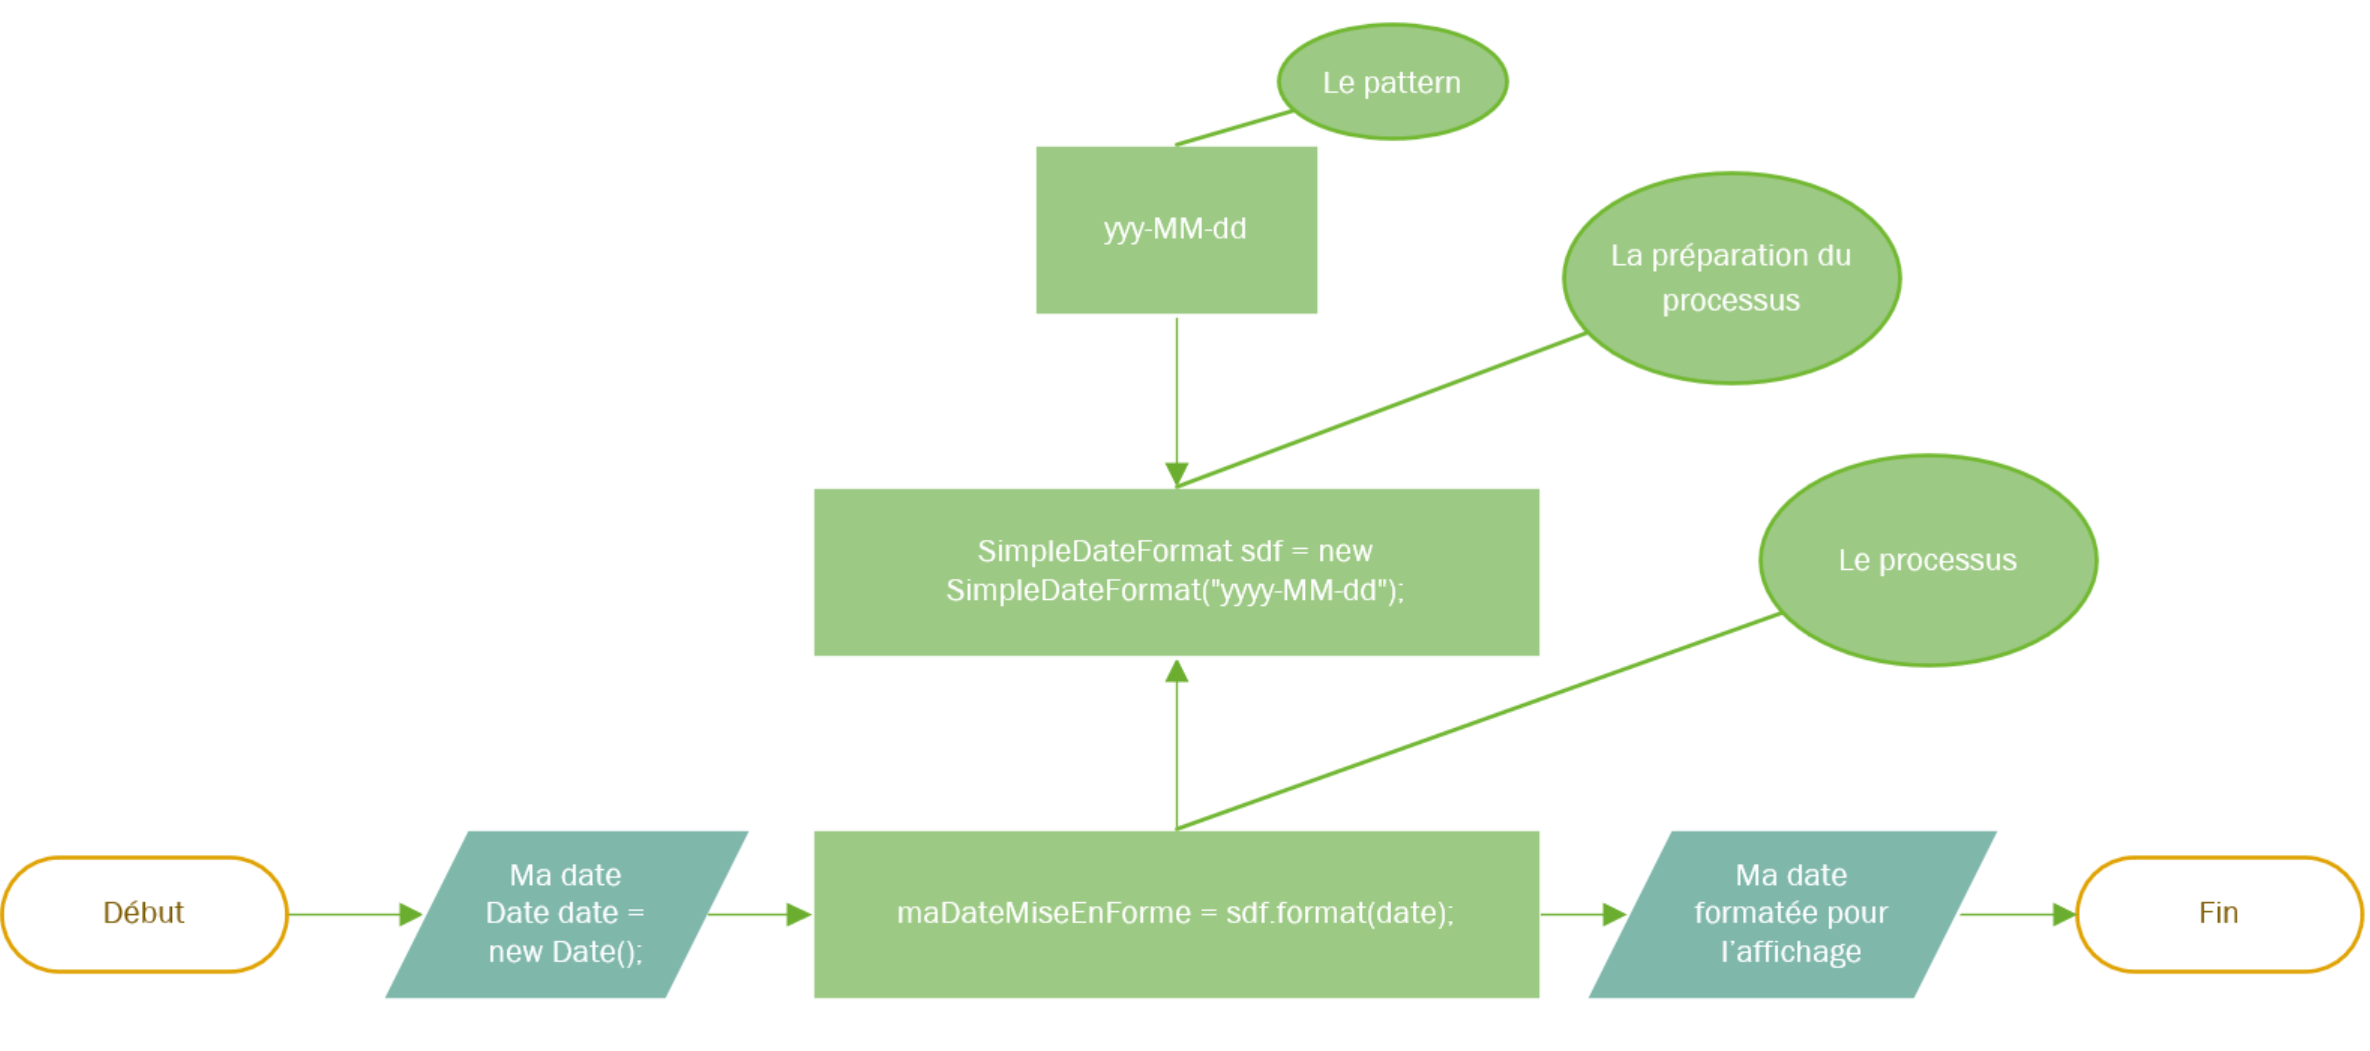
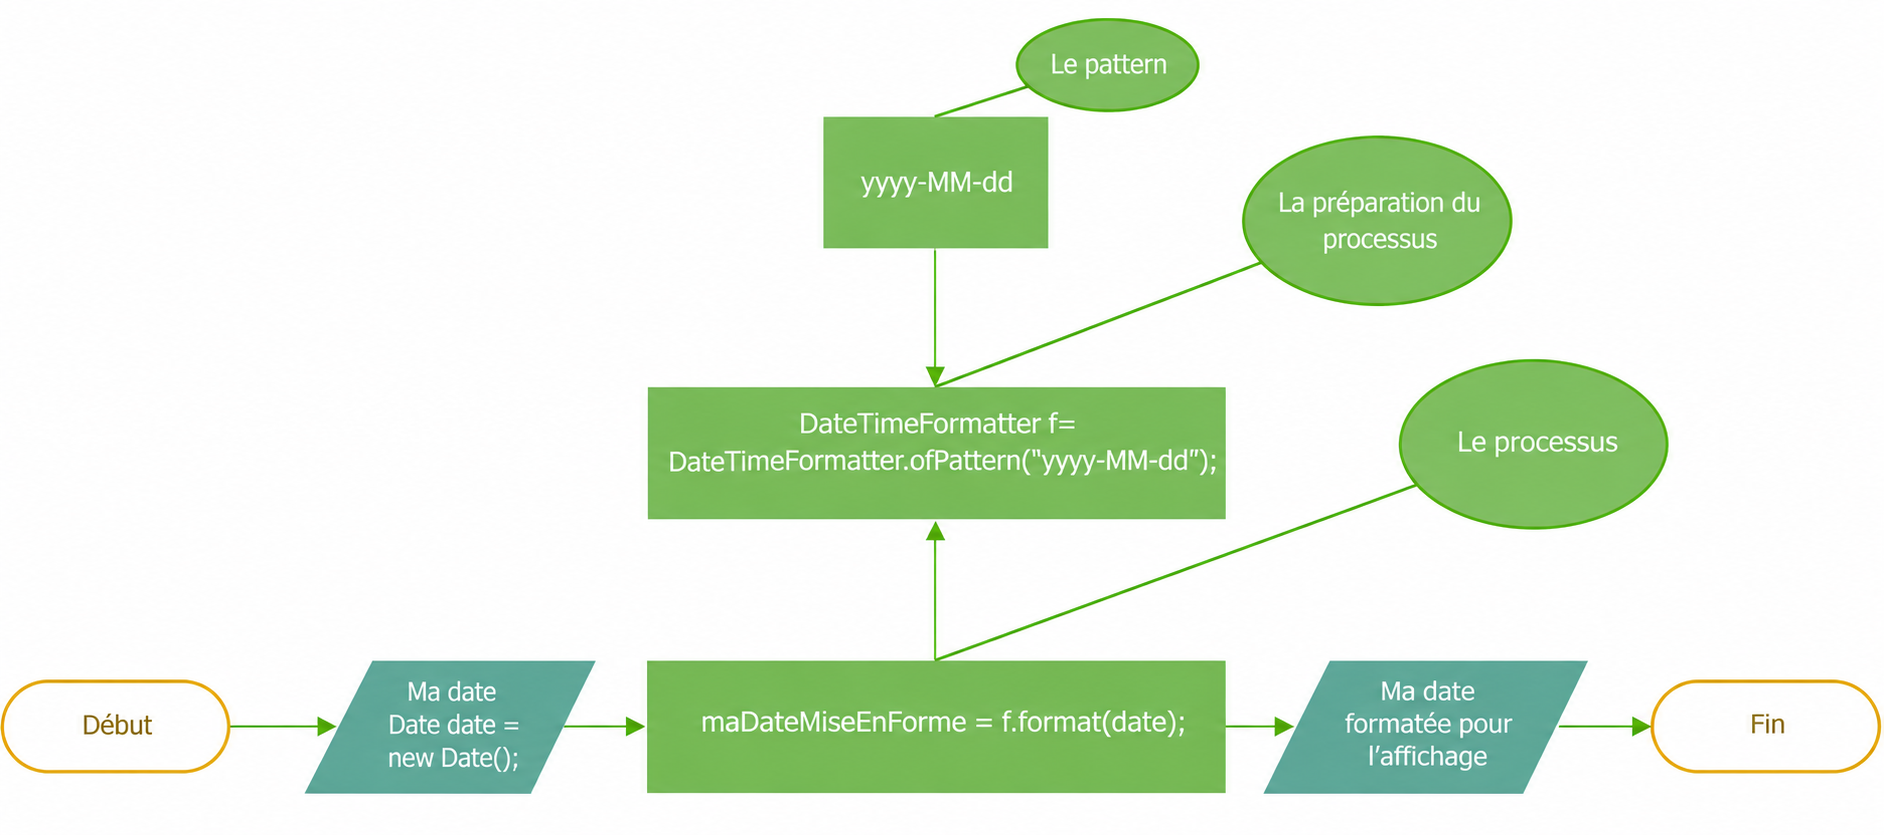
correction consigne: suppression mention JDK8 et SimpleDateFormat

diff --git a/THEORIE-Formatage-des-nombres.md b/THEORIE-Formatage-des-nombres.md
@@ -17,23 +17,20 @@ Le concept de "locale" fait référence à une région géographique, une langue
 Lors du formatage des nombres, la localisation (ou "locale" en anglais) joue un rôle crucial car elle détermine les conventions spécifiques utilisées pour le formatage, tels que le séparateur décimal, le séparateur de milliers, et même les symboles monétaires.
 La classe Locale dans le package java.util permet de représenter et de manipuler ces informations.
 
-Les symboles utilisés par la Locale par défaut sont visibles dans les réglages Windows: 
-- Panneau de configuration\Horloge et région\Region
+Depuis le JDK 9, Java utilise le CLDR (Common Locale Data Repository) pour les Locales et leurs symboles. Dans un système Windows configuré en français suisse, Java choisira donc par défaut la locale fr_CH du CLDR.
 
-  Par exemple dans les paramètres supplémentaire vous trouvez:
-
-
-  <img src="doc/img/TH_nombre_2.png" alt="personnalisation du format windows" />
-
+Dans le JDK 17, la locale de_CH utilise un point pour séparer les décimales et un apostrophe pour séparer les groupes (milliers). La locale fr_CH utilise une virgule pour séparer les décimales et un petit espace insécable pour séparer les groupes. Ce caractère unicode n'est pas toujours bien rendu par la console Windows.
 
 ## Formatage simple avec la Locale par défaut :
 
 Un constructeur de la classe DecimalFormat va nous permettre de créer notre outil de conversion, en indiquant directement en paramètre le pattern d'affichage souhaité.
-L'objet retourné de type DecimalFormat va nous permettre d'effectuer la transformation de notre nombre.
+L'objet retourné de type DecimalFormat servira à effectuer la transformation de notre nombre.
+
 **Attention:** Avec ce constructeur ce sont les **symboles** de la Locale par défaut qui sont utilisés.
 
 Il ne faut pas confondre pattern et symbole:
-   Par exemple la virgule (,) du pattern définit la présence de séparateurs de milliers, mais ce sera le symbole défini dans la Locale qui sera utilisé pour représenter ce séparateur de milliers.
+   - la virgule (,) du pattern définit la présence et l'emplacement de séparateurs
+   - dans l'affichage, un espace ou une apostrophe (ou autre) sera utilisé pour représenter ce séparateur
 
 Voici la même explication en code:
 
@@ -43,15 +40,14 @@ Voici la même explication en code:
 //Début du processus et définition d'un nombre.
 double monNombre = 1234567.89569;
 
-//Préparation de notre outil de transformation en utilisant un des constructeurs de DecimalFormat,
-//avec en paramètre le pattern désiré.
-//L'objet retourné de type DecimalFormat va nous permettre d'effectuer la transformation de notre nombre:
+/*Préparation de notre outil de transformation en utilisant un des constructeurs de DecimalFormat, avec en paramètre le pattern désiré.
+L'objet retourné de type DecimalFormat va nous permettre d'effectuer la transformation de notre nombre: */
 DecimalFormat df = new DecimalFormat("###,###.###");
 
 //Transformation et récupération du résultat
 String leNombreMisEnForme = df.format(monNombre);
 
-//Affichage du résultat:  1'234'567.895;
+//Affichage du résultat (peut varier selon la locale) :  1'234'567.895;
 System.out.println(leNombreMisEnForme); 
 ```
 
@@ -67,11 +63,11 @@ Et l'illustration schématique:
 | `###,###.###`        | Séparateur de milliers et jusqu'à trois décimales                     | 12345.678        | 12'345.678          |
 | `000000.00`          | Au moins six chiffres avant et deux après le point décimal, remplis de zéros | 78.5             | 000078.50           |
 | `#.#`                | Jusqu'à une décimale, pas de séparateur de milliers                   | 12345.678        | 12345.7             |
-| `###,###`            | Séparateur de milliers, pas de décimales                              | 1234567.89       | 1'234,568           |
-| `###,###.000`        | Séparateur de milliers et exactement trois décimales                  | 1234567.89       | 1'234,567.890       |
+| `###,###`            | Séparateur de milliers, pas de décimales                              | 1234567.89       | 1'234'568           |
+| `###,###.000`        | Séparateur de milliers et exactement trois décimales                  | 1234567.89       | 1'234'567.890       |
 | `00000000`           | Au moins huit chiffres, remplis de zéros, pas de décimales            | 12345            | 00012345            |
 | `¤ ###,###.00`       | Symbole de devise, séparateur de milliers et exactement deux décimales | 12345.678        | $ 12'345.68         |
-| `00.###E0`           | Notation exponentielle avec jusqu'à trois décimales                   | 12345.678        | 12'346E3            |
+| `00.###E0`           | Notation exponentielle avec jusqu'à trois décimales                   | 12345.678        | 12.346E5            |
 | `#,##0.0%`           | Multiplie par 100 et ajoute un symbole de pourcentage                 | 0.756            | 75.6%               |
 | `0.00‰`              | Multiplie par 1000 et ajoute un symbole pour mille                    | 0.1234           | 123.40‰             |
 | `# ?/?`              | Format de fraction simplifiée                                         | 1.25             | 1 1/4               |
@@ -80,7 +76,7 @@ Et l'illustration schématique:
 - `#` : Un chiffre, affiché seulement s'il est significatif.
 - `0` : Un chiffre, affiché même s'il est non significatif.
 - `.` : Emplacement du séparateur décimal.
-- `,` : Emplacement du séparateur de milliers.
+- `,` : Emplacement du séparateur de groupement.
 - `¤` : Symbole de la devise.
 - `%` : Multiplie par 100 et affiche un symbole de pourcentage.
 - `‰` : Multiplie par 1000 et affiche un symbole pour mille.
@@ -112,42 +108,23 @@ String leNombreMisEnForme = df.format(monNombre);
 System.out.println(leNombreMisEnForme);
 ```
 
+On peut également redéfinir certains symboles sans forcément modifier la Locale.
 
-
-## Compatibilité ascendante des JRE
-
-Java prône la compatibilité ascendante, c'est à dire la capacité d'une nouvelle version du JRE de faire fonctionner du code conçu avec une ancienne version.
-Et bien cette compatibilité est cassée entre le JRE 8 et JRE 17 pour certains symboles de certaines Locales:
-
-**Le code:**
 ```java
-    double monNombre = 1234567.89569;
-    //Création de la locale fr_CH
-    Locale localeSpecifique = new Locale.Builder().setLanguage("fr").setRegion("CH").build();
-    System.out.println("Locale spécifique : " + localeSpecifique);
-    //Création de DecimalFormatSymbols avec ma Locale spécifique
-    DecimalFormatSymbols symbols = new DecimalFormatSymbols(localeSpecifique);
-    //Affichage du séparateur des milliers
-    System.out.println("Séparateur de milliers : " + symbols.getGroupingSeparator());
-    //Formatage et affichage
-    DecimalFormat df = new DecimalFormat("###,###.###", symbols);
-    String leNombreMisEnForme = df.format(monNombre);
-    System.out.println("Le nombre formaté: " + leNombreMisEnForme); 
+double monNombre = 1234567.89569;
+//Création d'un jeu de symboles par défaut
+DecimalFormatSymbols symbols = new DecimalFormatSymbols();
+//Modification du séparateur des groupement
+symbols.setGroupingSeparator('\''); 
+//Modification du séparateur de décimales
+symbols.setDecimalSeparator('.');
+//Formatage et affichage du nombre
+DecimalFormat df = new DecimalFormat("###,###.##", symbols);
+String leNombreMisEnForme = df.format(monNombre);
+System.out.println("Le nombre formaté: " + leNombreMisEnForme); 
+//affichera "Le nombre formaté: 1'234'567.89"
 ```
 
-**Le résultat correct avec le JRE 8**
-
-   Locale spécifique : fr_CH\
-   Séparateur de milliers : '\
-   Le nombre formaté: 1'234'567.896
-
-**Le résultat incorrect avec le JRE 17**
-
-   Locale spécifique : fr_CH\
-   Séparateur de milliers : ?\
-   Le nombre formaté: 1?234?567,896
-
-   Vous aurez l'occasion de résoudre ce problème lors du prochain exercice :blush:
 
 
 

diff --git a/THEORIE-Formatage-des-dates.md b/THEORIE-Formatage-des-dates.md
@@ -1,7 +1,7 @@
 # Théorie formatage des dates
 
 Le principe est le même que pour le formatage des nombres, avec un processus de conversion qui cette fois repose sur la classe
-**SimpleDateFormat** du package **java.text**.
+**DateTimeFormatter** du package **java.time**.
 
 
 <img src="doc/img/TH_date_1.png" alt="processus date" />
@@ -12,19 +12,17 @@ L'équivalent en code:
 ## Formatage simple avec la Locale par défaut :
 ```java
 
-//Début du processus et définition d'une date.
-Date date = new Date(); // Renvoie la date et heure actuelle
+// Définition d'une date locale
+LocalDate date = LocalDate.now();
 
-//Préparation de notre outil de transformation en utilisant un des constructeur de SimpleDateFormat,
-//avec en paramètre le format désiré.
-//L'objet retourné de type SimpleDateFormat va nous permettre d'effectuer la transformation de notre date
-SimpleDateFormat sdf = new SimpleDateFormat("yyyy-MM-dd");
+// Préparation de notre outil de transformation avec DateTimeFormatter
+DateTimeFormatter formatter = DateTimeFormatter.ofPattern("yyyy-MM-dd");
 
-//Transformation et récupération du résultat
-String laDateMiseEnForme = sdf.format(date);
+// Transformation et récupération du résultat
+String laDateMiseEnForme = date.format(formatter);
 
-//Affichage du résultat par exemple: "2024-05-30
-System.out.println(laDateMiseEnForme); 
+// Affichage du résultat, par exemple : "2024-05-30"
+System.out.println(laDateMiseEnForme);
 
 ```
 
@@ -61,57 +59,30 @@ System.out.println(laDateMiseEnForme);
 - `z` : Fuseau horaire général.
 
 
-## Formatage avancé, avec utilisation de DateFormatSymbols et des Locales
+## Formatage avancé, avec utilisation de Locales
 
-Comme vous l'avez remarqué dans le tableau ci-dessus, les symboles de la Locale par défaut sont utilisés pour formater les dates et heures. En réalité, cela impacte principalement le nom du jour, du mois, et le numéro de jour de la semaine. 
+Comme vous l'avez remarqué dans le tableau ci-dessus, la Locale par défaut est utilisée pour formater les dates et heures. En réalité, cela impacte principalement le nom du jour, du mois, et le numéro de jour de la semaine.
 
-Dans certaines situations, il peut être nécessaire de changer la Locale par défaut et également de changer certains symboles de la Locale utilisée.
+Dans certaines situations, il peut être nécessaire de changer la Locale par défaut afin d'obtenir un affichage adapté à un pays ou une langue spécifique.
 
-Pour cela, SimpleDateFormat propose un constructeur qui demande en paramètre le pattern et un jeu de symboles. Ce jeu de symboles s'obtient avec une instance de DateFormatSymbols, dont le constructeur lui-même accepte soit aucun argument (c'est la Locale par défaut qui sera utilisée), soit un argument de type Locale.
+Pour cela, `DateTimeFormatter` permet d'utiliser directement une locale lors de la création du formateur.
 
 ```java
 // Définition d'une Locale spécifique (par exemple, la Suisse romande)
 Locale locale = new Locale.Builder().setLanguage("fr").setRegion("CH").build();
-        
-// Instantiation de DateFormatSymbols en fonction de cette locale
-DateFormatSymbols dateFormatSymbols = new DateFormatSymbols(locale);
 
-// Personnalisation de jeu de symboles obtenu avec les instructions suivantes:
-String[] newWeekdays = {
-  "", "Le dimanche", "Le lundi", "Le mardi", "Le mercredi", "Le jeudi", "Le vendredi", "Le samedi"
-};
-  
-dateFormatSymbols.setWeekdays(newWeekdays);
-   
 // Création d'une date à formater (date actuelle)
-Date date = new Date();
+LocalDate date = LocalDate.now();
 
-// Instantiation de SimpleDateFormat, avec un pattern et le jeu de symboles customizé
-SimpleDateFormat sdf = new SimpleDateFormat("EEEE, MMMM dd, yyyy", dateFormatSymbols);
-// Formatage de la date selon le pattern et les symbols personnalisés
-String formattedDate = sdf.format(date);
+// Création d'un formateur avec le pattern et la locale personnalisée
+DateTimeFormatter formatter = DateTimeFormatter.ofPattern("EEEE, MMMM dd, yyyy", locale);
 
-// Affichage du résultat formaté : par exemple Le samedi, juin 08, 2024
+// Formatage de la date selon le pattern et la locale
+String formattedDate = formatter.format(date);
+
+// Affichage du résultat formaté : par exemple "samedi, juin 08, 2024"
 System.out.println("Date formatée (Suisse personnalisé): " + formattedDate);
 ```
-
-## Pour aller plus loin, le package `java.time`
-
-Le package `java.time` offre de nombreux avantages par rapport aux package `java.text` et `java.util` car il utilise des objets immuables (objet dont l'état ne peux pas être modifié après sa création), qui sont thread-safe et qui offre de très nombreux outils très pratiques pour travailler et calculer avec des dates/heures (exemples donnés plus bas).
-
-| Caractéristique                          | `java.time`                              | `java.util` et `java.text`                |
-|------------------------------------------|------------------------------------------|------------------------------------------|
-| Immutabilité                             | Oui                                      | Non                                      |
-| Gestion des fuseaux horaires             | Intégrée et facile                       | Complexe et sujet à erreurs              |
-| API fluide                               | Oui                                      | Non                                      |
-| Support des types temporels spécifiques  | Oui (LocalDate, LocalTime, etc.)         | Non (utilise principalement `Date` et `Calendar`) |
-| Sécurité thread                          | Oui                                      | Non                                      |
-| Parsing et formatage                     | `DateTimeFormatter`                      | `SimpleDateFormat` et `DateFormat`       |
-| Gestion des périodes et des durées       | `Period`, `Duration`                     | Complexe, doit être implémentée manuellement |
-| Compatibilité avec les API modernes      | Oui                                      | Non                                      |
-
-> [!IMPORTANT]  
-> `java.time` est l'avenir de Java (la classe Date son passé) ! C'est la voie qu'il vous faut préférer dans vos développements.
 
 ### DateTimeFormatter, LocalDate et LocalDateTime
 

diff --git a/EXERCICE-Formatage.md b/EXERCICE-Formatage.md
@@ -1,0 +1,42 @@
+# Exercice 2 Formatage
+
+## Objectifs
+
+Appliquer le principe d'encapsulation et d'abstraction de la POO.
+
+Utiliser les classes des package java.utils et java.time découvertes dans la théorie pour résoudre un problème d'une situation professionnelle.
+
+## Contexte et donnée
+Dans une équipe de développeurs internationale, vous êtes amené sans cesse à formater des nombres et des dates.
+Chacun utilise les fonctions Java de base de manière un peu différente, et le code est difficile à maintenir. De plus, les pertes de fonctionnalités des nouveaux JDK concernant la reconnaissance du séparateur des milliers pour certaines locales, par exemple, sont problématiques.
+
+Vous êtes donc chargé de créer des classes de service qui fourniront des méthodes pour le formatage des nombres et des dates.
+Soyez attentif aux méthodes publiques et privées proposées, afin de séparer les responsabilités et d'éviter la duplication de code. Pour l'instant, les méthodes publiques ne proposent qu'un formatage avec la locale fr_CH, mais ce service pourrait supporter d'autres locales dans le futur.
+
+
+## Réalisation & Durée
+1. Prenez connaissance et lisez soigneusement le code déjà fourni..
+2. Le main() et son code vous sont fournis.
+3. Le main() utilise les méthodes de vos services `ServiceFormatageNombre` et `ServiceFormatageDateEtHeure` . Le résultat obtenu est à chaque fois affiché sur la console afin de vérifier son bon fonctionnement.
+4. Votre travail consiste à implémenter les méthodes actuellement vides de ces services.
+5. Lisez attentivement la javadoc fournie, elle contient toutes les indications sur le fonctionnement souhaité de ces méthodes !
+
+Durée : 90'
+
+## Résultat à obtenir (avec bien sûr votre heure et date actuelles)
+
+
+TEST DU FORMATAGE NOMBRE, DATE ET HEURE
+
+Résultat du formatage du nombre : 1'234'567.89
+
+Date actuelle formatée avec le style court : 17.08.24
+
+Date dans une semaine formatée avec pattern personnalisé : 24/08/2024
+
+Heure actuelle formatée avec le style court : 13:57
+
+Heure moins 12 heures formatée avec pattern personnalisé : 01:57:58
+
+Date et heure actuelles formatées avec le style court : 17.08.24 13:57
+

diff --git a/README.md b/README.md
@@ -2,7 +2,6 @@
 
 **Table des matières** :
 
-- [Le formatage des nombres et des dates](#le-formatage-des-nombres-et-des-dates)
 - [Introduction](#introduction)
 - [Objectifs](#objectifs)
 - [Excercices et théorie](#excercices-et-théorie)
@@ -36,16 +35,13 @@ Ces outils, c'est à dire des classes java, vous nous permettrent de répondre a
 
 
 # Excercices et théorie
-## Découverte de la librairie java
-   Pour débuter, vous parcourez la documentation java afin d'effectuer l'activité suivante:
-   - [EXERCICE-1-UML](/EXERCICE-1-UML.md)
 
 ## Explication du formatage des nombres
  - [THEORIE-Formatage-des-nombres](/THEORIE-Formatage-des-nombres.md)
  - [THEORIE-Formatage-des-dates](/THEORIE-Formatage-des-dates.md)
 
 ## Exercice formatage 
- - [EXERCICE-2-Formatage](/EXERCICE-2-Formatage.md)
+ - [EXERCICE-Formatage](/EXERCICE-Formatage.md)
 
 
 # Ressources
